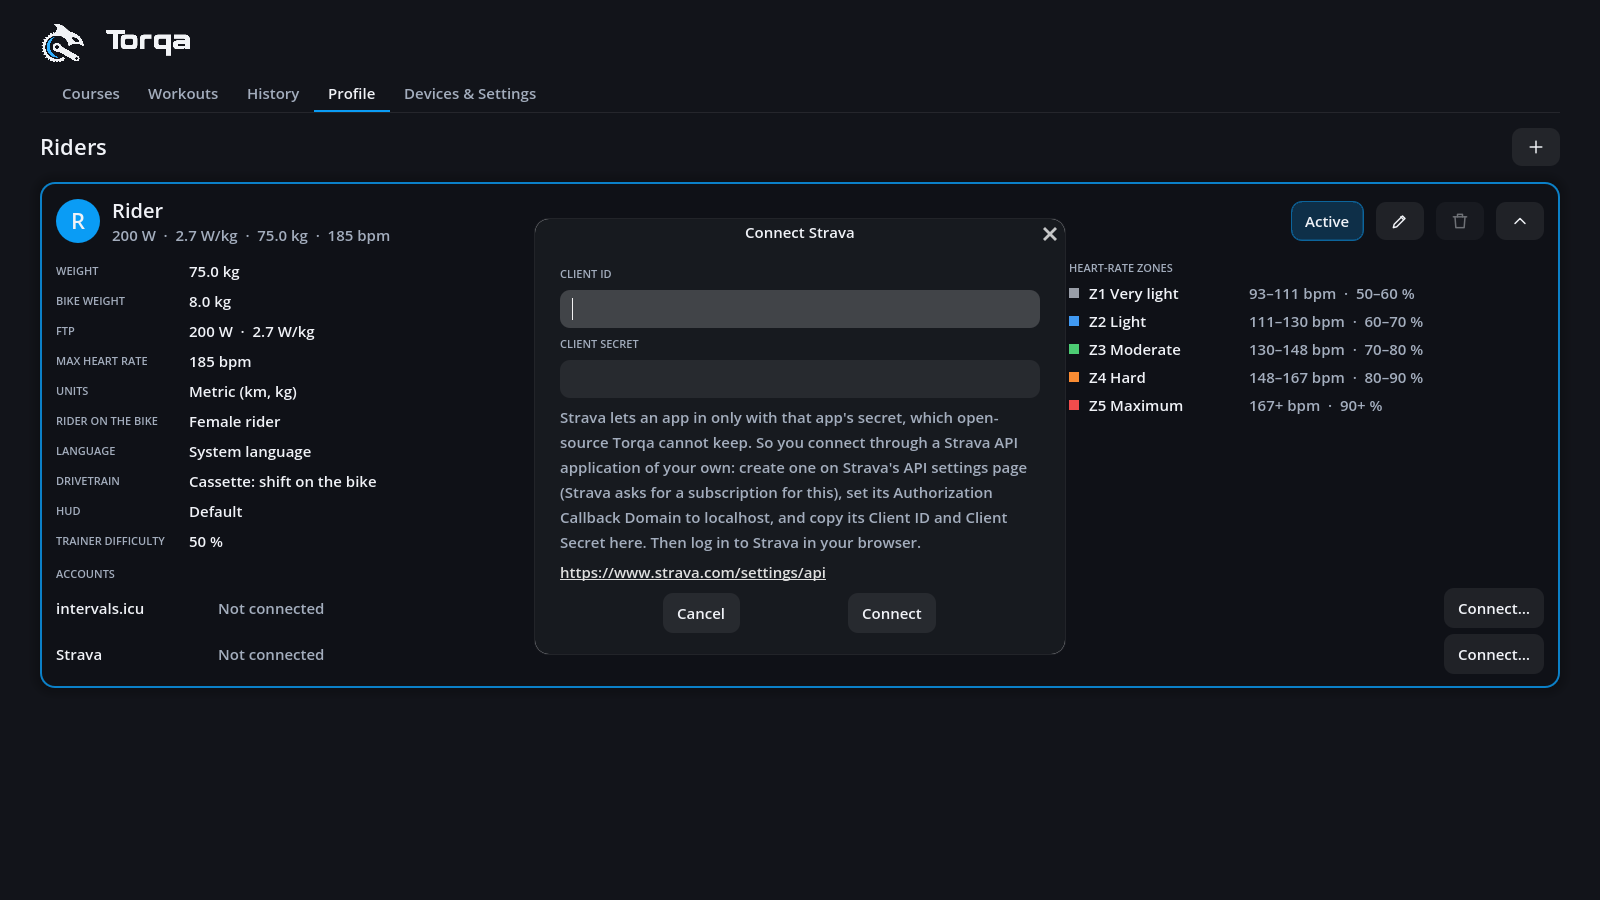
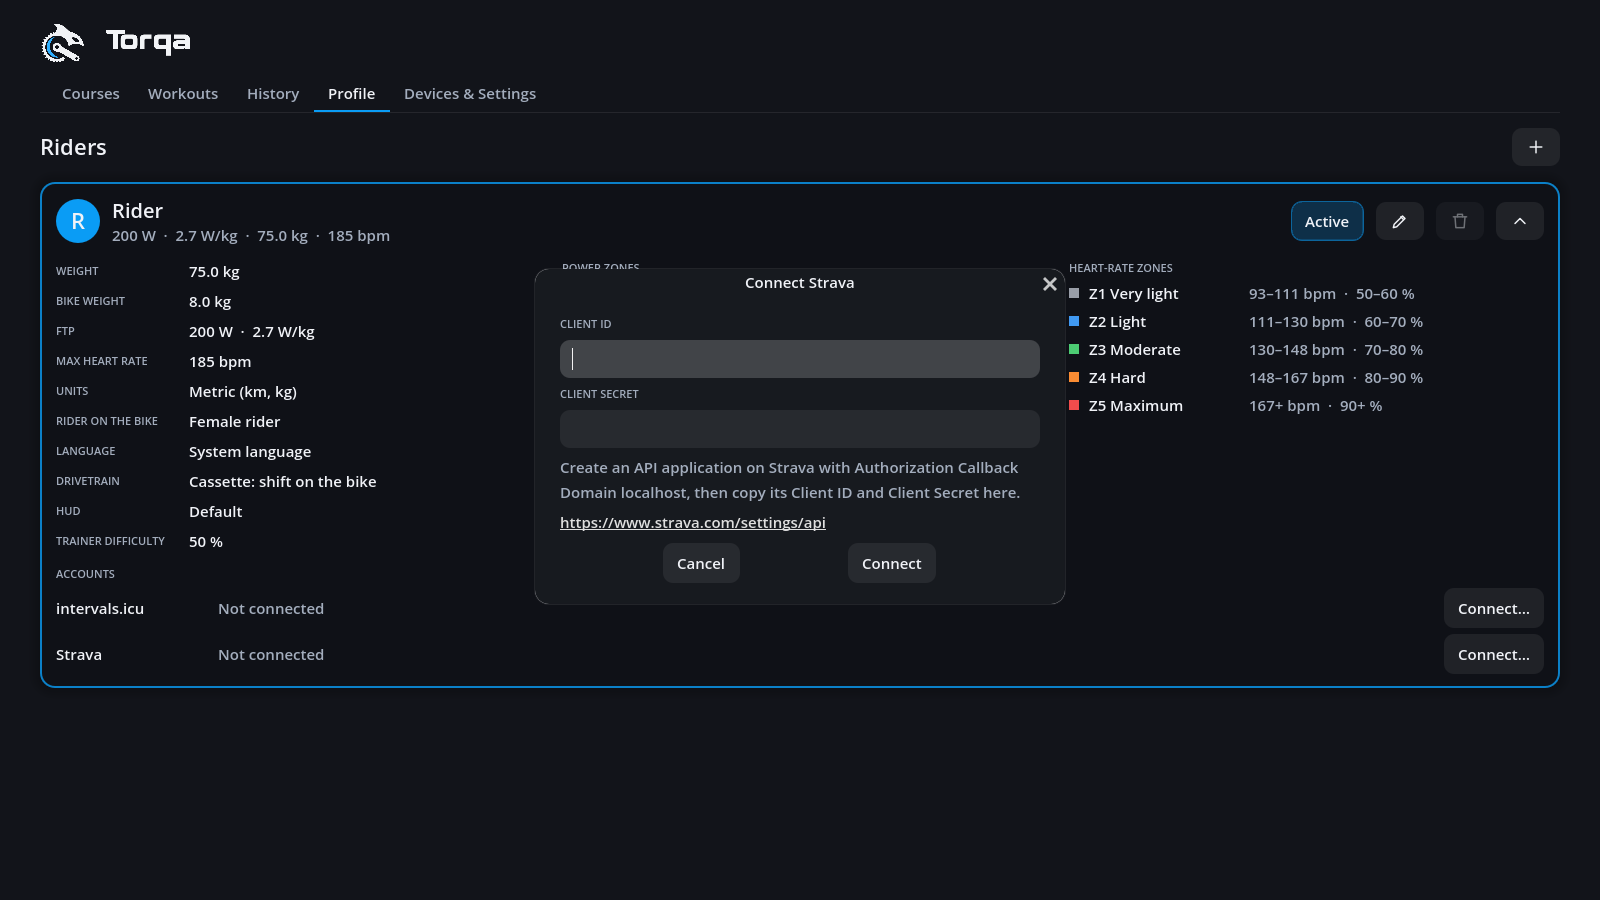
fix(uploads): only what the Strava dialog needs in its hint
The why (Strava wants the app's secret) and the browser login stay in
docs/uploads.md and ADR 0013; the dialog says what to create and copy.

Changed region(s): [[0.3438, 0.28, 0.6562, 0.7156], [0.4688, 0.2489, 0.5312, 0.28]]

diff --git a/core/torqa-upload/src/strava.rs b/core/torqa-upload/src/strava.rs
@@ -45,7 +45,7 @@ const FIELDS: &[Field] = &[
     },
 ];
 // One line: the translation template takes texts line by line.
-const HELP: &str = "Strava lets an app in only with that app's secret, which open-source Torqa cannot keep. So you connect through a Strava API application of your own: create one on Strava's API settings page (Strava asks for a subscription for this), set its Authorization Callback Domain to localhost, and copy its Client ID and Client Secret here. Then log in to Strava in your browser.";
+const HELP: &str = "Create an API application on Strava with Authorization Callback Domain localhost, then copy its Client ID and Client Secret here.";
 // i18n-end
 
 /// Uploads to Strava.
